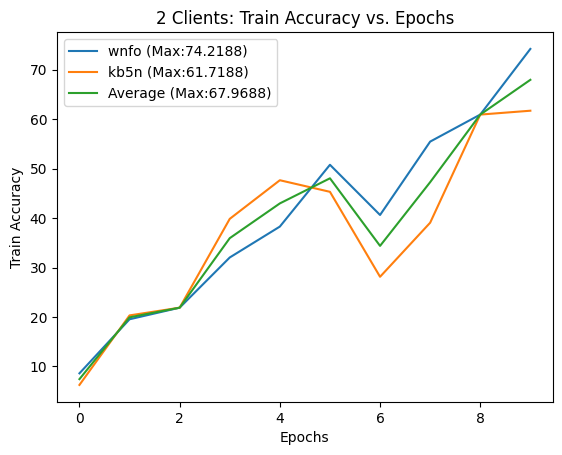
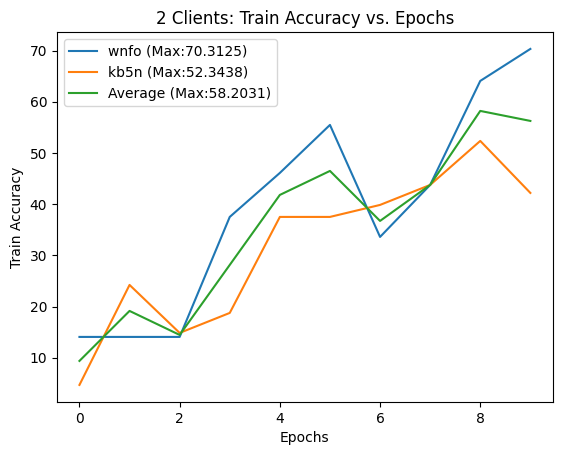
Multiple clients working

diff --git a/server.py b/server.py
@@ -92,7 +92,7 @@ def main(server_pipe_endpoints):
     num_epochs = 10
     HOST = 'localhost'
     PORT = 8000
-    limit_clients = 1
+    limit_clients = 2
     accept_clients = AcceptClients(HOST, PORT, limit_clients)
     # accept_clients.start()
     ServerSocket = accept_clients.run(server_pipe_endpoints)

diff --git a/clients.py b/clients.py
@@ -74,7 +74,7 @@ def test(model, device, test_loader):
 
 if __name__ == "__main__":
     torch.multiprocessing.set_start_method('spawn')
-    num_clients = 1
+    num_clients = 2
     num_epochs = 10
 
     server_pipe_endpoints = {}
